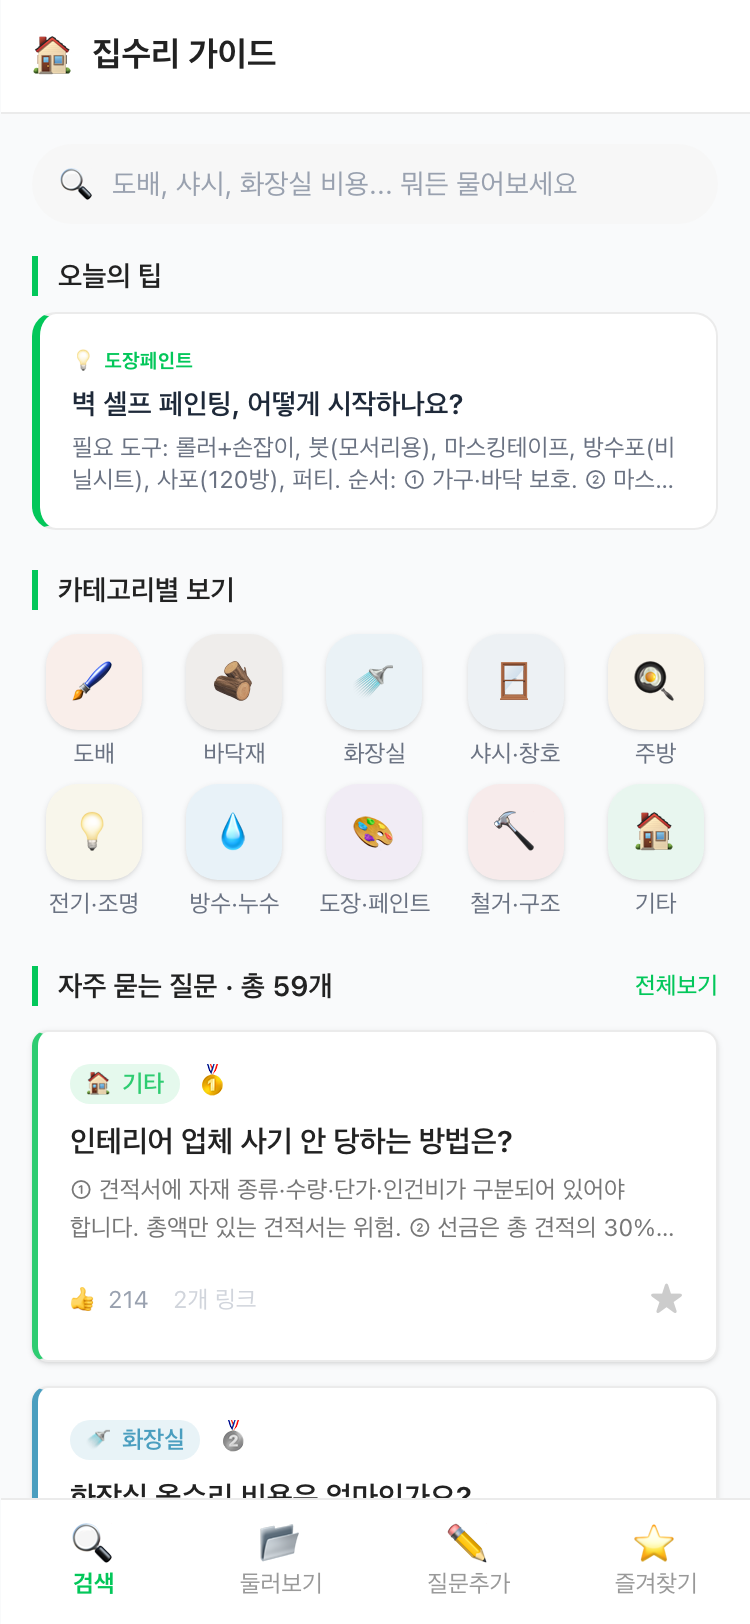
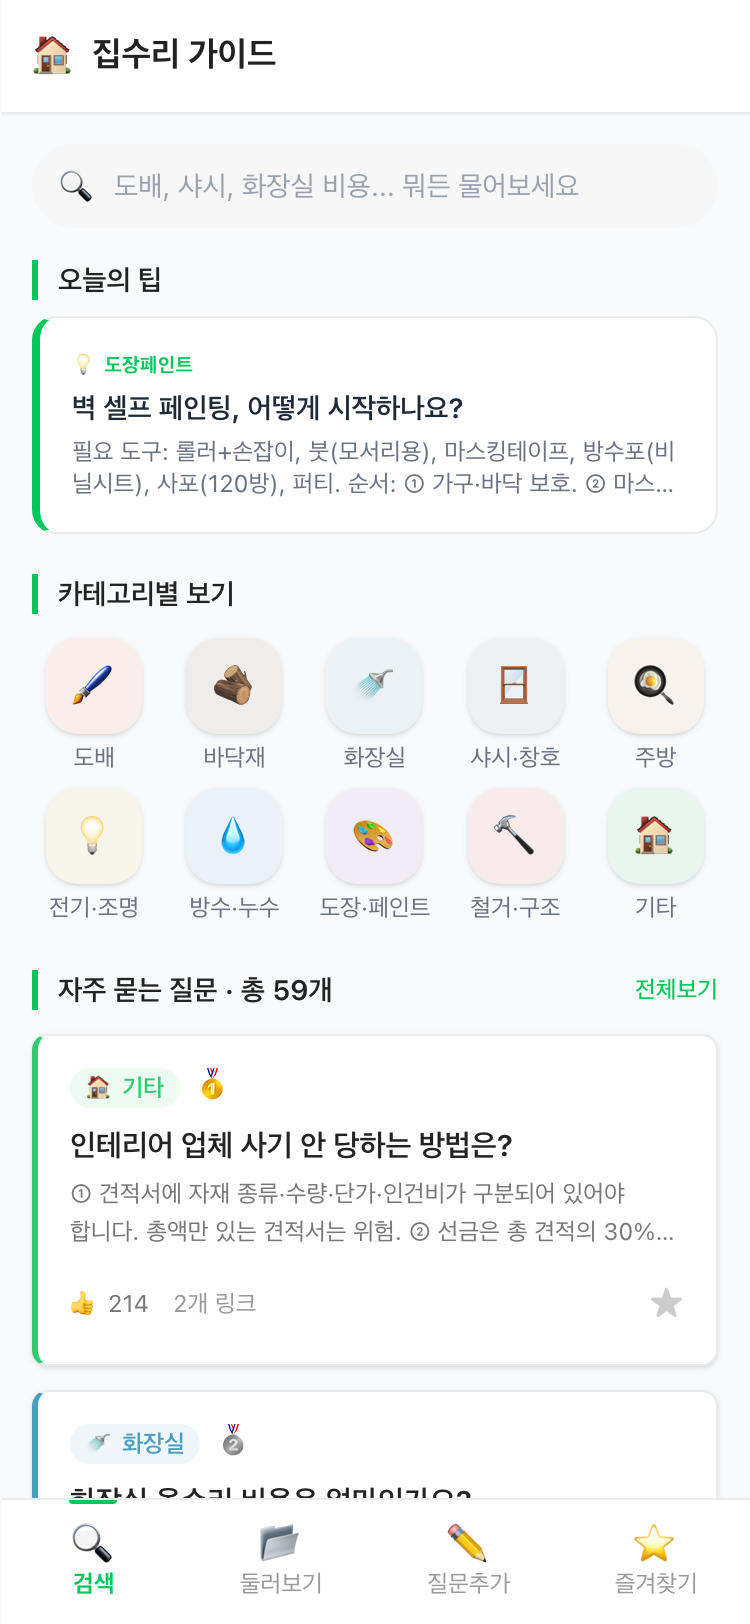
design: 사이클 5 — 최종 폴리시 인터랙션·섀도우
- QACard hover 그린 border + transition-all
- 카테고리 칩 배경 20% → 15% opacity
- 검색창 hover:bg-white 인터랙션
- 카테고리 아이콘 hover 살짝 떠오르는 효과
- Header 하단 얇은 그림자
- BottomNav 활성 탭 상단 그린 indicator bar
- QADetail 액션 버튼 흰 배경 + border (더 깔끔)
- AddPage 제출 버튼 active 스케일 애니메이션
- FavoritesPage 데이터관리 버튼 흰 배경 전환

Confidence: high
Scope-risk: narrow

diff --git a/src/components/qa/QACard.tsx b/src/components/qa/QACard.tsx
@@ -30,14 +30,14 @@ export function QACard({ item, compact = false, rank }: Props) {
 
   return (
     <article
-      className="bg-white rounded-lg shadow-sm border border-[#EBEBEB] border-l-[3px] p-4 cursor-pointer active:scale-[0.98] transition-transform"
+      className="bg-white rounded-lg shadow-sm border border-[#EBEBEB] border-l-[3px] p-4 cursor-pointer active:scale-[0.98] hover:border-[#03C75A]/30 transition-all"
       style={{ borderLeftColor: category?.color ?? '#03C75A' }}
       onClick={() => setSelectedItem(item)}
     >
       <div className="flex items-start gap-2 mb-2">
         <span
           className="inline-flex items-center gap-1 text-xs px-2 py-0.5 rounded-full font-semibold shrink-0"
-          style={{ backgroundColor: category?.color + '20', color: category?.color }}
+          style={{ backgroundColor: (category?.color ?? '#03C75A') + '15', color: category?.color ?? '#03C75A' }}
         >
           {category?.icon} {item.category}
         </span>
@@ -73,12 +73,12 @@ export function QACard({ item, compact = false, rank }: Props) {
         <div className="flex items-center gap-3">
           <button
             onClick={() => incrementLike(item.id)}
-            className="flex items-center gap-1 text-xs text-gray-400 active:text-[#03C75A] transition-colors"
+            className="flex items-center gap-1 text-xs text-[#777777] active:text-[#03C75A] transition-colors"
           >
             <span>👍</span>
             <span>{totalLikes}</span>
           </button>
-          <span className="text-xs text-gray-300">{item.relatedLinks.length}개 링크</span>
+          <span className="text-xs text-[#999999]">{item.relatedLinks.length}개 링크</span>
         </div>
         <button
           onClick={() => toggleFavorite(item.id)}

diff --git a/src/components/qa/QADetail.tsx b/src/components/qa/QADetail.tsx
@@ -136,7 +136,7 @@ export function QADetail() {
       <div className="flex items-center gap-2">
         <button
           onClick={() => incrementLike(item.id)}
-          className="flex items-center gap-1.5 text-sm text-gray-500 bg-gray-50 rounded-full px-4 py-2 active:bg-[#E5F9EE] active:text-[#03C75A] transition-colors"
+          className="flex items-center gap-1.5 text-sm text-gray-500 bg-white border border-[#EBEBEB] rounded-full px-4 py-2 active:bg-[#E5F9EE] active:text-[#03C75A] transition-colors"
         >
           <span>👍</span>
           <span>도움됐어요 {totalLikes}</span>
@@ -145,7 +145,7 @@ export function QADetail() {
           onClick={() => toggleFavorite(item.id)}
           className={clsx(
             'flex items-center gap-1.5 text-sm rounded-full px-4 py-2 transition-colors',
-            isFav ? 'bg-yellow-50 text-yellow-500' : 'bg-gray-50 text-gray-500',
+            isFav ? 'bg-yellow-50 border border-yellow-200 text-yellow-500' : 'bg-white border border-[#EBEBEB] text-[#555555]',
           )}
         >
           <span>{isFav ? '★' : '☆'}</span>
@@ -153,7 +153,7 @@ export function QADetail() {
         </button>
         <button
           onClick={handleShare}
-          className="flex items-center gap-1.5 text-sm text-gray-500 bg-gray-50 rounded-full px-4 py-2 active:bg-blue-50 active:text-blue-500 transition-colors"
+          className="flex items-center gap-1.5 text-sm text-gray-500 bg-white border border-[#EBEBEB] rounded-full px-4 py-2 active:bg-blue-50 active:text-blue-500 transition-colors"
         >
           <span>↗</span>
           <span>공유</span>

diff --git a/src/components/home/SearchPage.tsx b/src/components/home/SearchPage.tsx
@@ -49,7 +49,7 @@ export function SearchPage() {
             value={searchQuery}
             onChange={handleSearch}
             placeholder="도배, 샤시, 화장실 비용... 뭐든 물어보세요"
-            className="w-full pl-10 pr-4 py-2.5 bg-[#F7F7F7] rounded-full text-sm outline-none focus:ring-2 focus:ring-[#03C75A]/30 focus:border-[#03C75A] focus:bg-white transition-all placeholder-gray-400"
+            className="w-full pl-10 pr-4 py-2.5 bg-[#F7F7F7] hover:bg-white rounded-full text-sm outline-none border border-transparent focus:ring-2 focus:ring-[#03C75A]/30 focus:border-[#03C75A] focus:bg-white transition-all placeholder-gray-400"
           />
           {searchQuery && (
             <button
@@ -161,10 +161,10 @@ export function SearchPage() {
               <button
                 key={cat.id}
                 onClick={() => handleCategoryClick(cat.id)}
-                className="flex flex-col items-center gap-1 active:opacity-70 transition-opacity"
+                className="flex flex-col items-center gap-1 active:opacity-70 hover:-translate-y-0.5 transition-all"
               >
                 <div
-                  className="w-12 h-12 rounded-2xl flex items-center justify-center text-xl shadow-sm"
+                  className="w-12 h-12 rounded-2xl flex items-center justify-center text-xl shadow-sm hover:shadow-md transition-shadow"
                   style={{ backgroundColor: cat.color + '15' }}
                 >
                   {cat.icon}

diff --git a/src/components/favorites/FavoritesPage.tsx b/src/components/favorites/FavoritesPage.tsx
@@ -28,17 +28,17 @@ export function FavoritesPage() {
 
   const dataControls = (
     <div className="mt-6 border-t border-gray-100 pt-4">
-      <p className="text-xs text-gray-400 mb-2 text-center">데이터 관리</p>
+      <p className="text-xs text-[#777777] font-medium mb-2 text-center">데이터 관리</p>
       <div className="flex gap-2">
         <button
           onClick={() => exportData(userQuestions, favorites, likesMap)}
-          className="flex-1 py-2.5 text-xs bg-gray-50 text-gray-600 rounded-xl border border-gray-100 active:bg-gray-100"
+          className="flex-1 py-2.5 text-xs bg-white text-[#555555] rounded-lg border border-[#EBEBEB] active:bg-[#F5F5F5]"
         >
           📤 내보내기
         </button>
         <button
           onClick={() => fileInputRef.current?.click()}
-          className="flex-1 py-2.5 text-xs bg-gray-50 text-gray-600 rounded-xl border border-gray-100 active:bg-gray-100"
+          className="flex-1 py-2.5 text-xs bg-white text-[#555555] rounded-lg border border-[#EBEBEB] active:bg-[#F5F5F5]"
         >
           📥 가져오기
         </button>

diff --git a/src/components/layout/Header.tsx b/src/components/layout/Header.tsx
@@ -12,7 +12,7 @@ export function Header() {
 
   if (selectedItem) {
     return (
-      <header className="fixed top-0 left-1/2 -translate-x-1/2 w-full max-w-[430px] bg-white z-40 border-b border-[#EBEBEB]">
+      <header className="fixed top-0 left-1/2 -translate-x-1/2 w-full max-w-[430px] bg-white z-40 border-b border-[#EBEBEB] shadow-[0_1px_0_rgba(0,0,0,0.02)]">
         <div className="flex items-center h-14 px-4 gap-3">
           <button
             onClick={() => setSelectedItem(null)}
@@ -28,7 +28,7 @@ export function Header() {
   }
 
   return (
-    <header className="fixed top-0 left-1/2 -translate-x-1/2 w-full max-w-[430px] bg-white z-40 border-b border-[#EBEBEB]">
+    <header className="fixed top-0 left-1/2 -translate-x-1/2 w-full max-w-[430px] bg-white z-40 border-b border-[#EBEBEB] shadow-[0_1px_0_rgba(0,0,0,0.02)]">
       <div className="flex items-center h-14 px-4">
         <span className="text-xl mr-2">🏠</span>
         <h1 className="text-[17px] font-bold text-[#222222]">{TAB_TITLES[activeTab]}</h1>

diff --git a/src/components/layout/BottomNav.tsx b/src/components/layout/BottomNav.tsx
@@ -24,12 +24,15 @@ export function BottomNav() {
             key={tab.id}
             onClick={() => setActiveTab(tab.id)}
             className={clsx(
-              'flex-1 flex flex-col items-center justify-center py-3 gap-0.5 text-xs transition-colors',
+              'relative flex-1 flex flex-col items-center justify-center py-3 gap-0.5 text-xs transition-colors',
               activeTab === tab.id
                 ? 'text-[#03C75A] font-bold'
                 : 'text-[#999999]',
             )}
           >
+            {activeTab === tab.id && (
+              <span className="absolute top-0 left-1/2 -translate-x-1/2 w-6 h-0.5 bg-[#03C75A] rounded-b-full"/>
+            )}
             <span className="relative text-xl leading-none">
               {tab.icon}
               {badges[tab.id] != null && (

diff --git a/src/components/add/AddPage.tsx b/src/components/add/AddPage.tsx
@@ -172,7 +172,7 @@ export function AddPage() {
         <button
           type="submit"
           disabled={!isValid}
-          className="w-full py-3.5 rounded-2xl text-sm font-semibold transition-colors disabled:opacity-40 disabled:cursor-not-allowed"
+          className="w-full py-3.5 rounded-xl shadow-sm active:scale-[0.98] transition-transform text-sm font-semibold disabled:opacity-40 disabled:cursor-not-allowed"
           style={{ backgroundColor: isValid ? '#03C75A' : undefined, color: isValid ? 'white' : undefined }}
         >
           질문 추가하기
